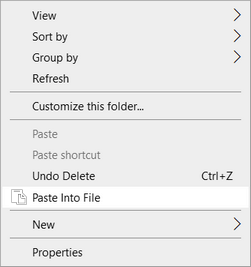
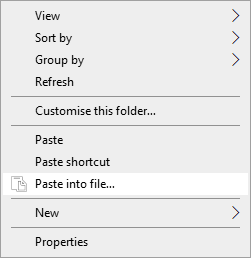
Update README for upcoming v4.4

diff --git a/README.md b/README.md
@@ -13,7 +13,7 @@ A Windows desktop application to paste clipboard contents into files and copy fi
 
 _This is a fork of [sorge13248/PasteIntoFile](https://github.com/sorge13248/PasteIntoFile), itself being a fork of [EslaMx7/PasteIntoFile](https://github.com/EslaMx7/PasteIntoFile)._
 _See the [contributors page](https://github.com/eltos/PasteIntoFile/graphs/contributors) for details on collaborators._
-_This fork comes with many new features such as clipboard monitoring, batch mode, rename inside file explorer, copy file contents, paste into subdirectory, system tray mode, listen to hotkey, support for many additional formats and a new GUI with fluid layout and comfortable text, image, HTML and richt-text preview._
+_This fork comes with many new features such as clipboard monitoring, clipboard patching, batch mode, rename inside file explorer, copy file contents, paste into subdirectory, system tray mode, listen to hotkey, support for many additional formats and a new GUI with fluid layout and comfortable text, image, HTML and richt-text preview._
 _The full changelog can be found on the [release page](https://github.com/eltos/PasteIntoFile/releases)._
 
 
@@ -23,7 +23,8 @@ _The full changelog can be found on the [release page](https://github.com/eltos/
 + Explorer context menu entry: "Paste into file" or "Copy file contents"
 + [Autosave mode](https://github.com/eltos/PasteIntoFile/discussions/2): rename inside file explorer without dialog
 + [Batch mode](https://github.com/eltos/PasteIntoFile/discussions/4): monitor clipboard and save on change
-+ Many formats: Image, Text, HTML, CSV, URL, Rich Text Format (RTF), Data Interchange Format (DIF), Symbolic Link (SLK)
++ [Clipboard patching](https://github.com/eltos/PasteIntoFile/discussions/11): use regular paste options and `CTRL`+`V`
++ Many formats: Image, Text, HTML, CSV, URL, Rich Text Format (RTF), Data Interchange Format (DIF), Symbolic Link (SLK), file drop list
 + Hotkey `Win`+`Alt`+`V` to paste and `Win`+`Alt`+`C` to copy file contents
 + First launch wizard
 
@@ -40,12 +41,12 @@ Paste Into File is free
   + And a **portable version** (.zip file)
 + [Install from Microsoft Store](https://apps.microsoft.com/store/detail/XP88X1XTPKZJDJ)
 
-| [🪙 DONATE](https://github.com/sponsors/eltos) | [❤ SAY THANKS](https://saythanks.io/to/eltos)
-|-|-|
+| [🪙 DONATE](https://github.com/sponsors/eltos) | [❤ SAY THANKS](https://saythanks.io/to/eltos) |
+|---|---|
 
-_Tested on Windows 10._  
-_If you are running an older Windows version make sure the .NET Framework 4.8+ is installed._  
-_If the Microsoft Defender SmartScreen promp appears read [this](https://github.com/eltos/PasteIntoFile/discussions/10)._  
+_Tested on Windows 10._
+_If you are running an older Windows version make sure the .NET Framework 4.8+ is installed._
+_If the Microsoft Defender SmartScreen promp appears read [this](https://github.com/eltos/PasteIntoFile/discussions/10)._
 
 
 ## Usage
@@ -54,13 +55,14 @@ When starting Paste Into File for the first time or after an update, the first l
 
 In addition to the instructions given below, help is also available via [GitHub discussions](https://github.com/eltos/PasteIntoFile/discussions/categories/q-a).
 
-
 ### Paste clipboard contents
-Run the program with the hotkey, from the file explorer context menu, the start menu or the command line.
+If **clipboard patching** is enabled and Paste Into File runs in the system tray, the regular paste command and `CTRL`+`V` hotkey can be used.
+Otherwise (or if you want to use the features described below), run the program from the file explorer context menu, via the start menu, with the hotkey `WIN`+`ALT`+`V` (if enabled) or via command line.
 
-In **autosave mode**, the file will directly be created and selected for renaming.
-Otherwise the dialog will prompt for filename and type.
+In **autosave mode**, the file to paste will directly be created and selected for renaming.
+Otherwise, the dialog will prompt for filename and type.
 By holding `SHIFT` when the program starts, the autosave mode setting can be temporarily inverted (show the dialog even though autosave is enabled, or skip the dialog even though autosave is disabled).
+When running Paste Into File from the start menu, the dialog will always be shown.
 
 The **filename template** can be edited from the dialog or via command line.
 When holding `CTRL` while the program starts, the file will be saved to a subdirectory.
@@ -84,7 +86,7 @@ while using `HTML` will save the plain text.
 
 
 ### Copy file contents
-Run the program with the hotkey, from the file explorer context menu, the start menu or the command line.
+Run the program from the file explorer context menu, with the hotkey `WIN`+`ALT`+`C` (if enabled) or via command line.
 
 Currently, image and text files are supported. If the file format is not understood, an error message will be shown.
 
@@ -95,7 +97,7 @@ Currently, image and text files are supported. If the file format is not underst
 Use `help`, `help paste`, `help config` etc. as argument to show available command line options, e.g.:
 ```
 > .\PasteIntoFile.exe help
-PasteIntoFile 4.2.0.0
+PasteIntoFile 4.4.0.0
 Copyright © PasteIntoFile GitHub contributors
 
   paste      (Default Verb) Paste clipboard contents into file
@@ -108,7 +110,7 @@ Copyright © PasteIntoFile GitHub contributors
 ```
 ```
 > .\PasteIntoFile.exe help config
-PasteIntoFile 4.2.0.0
+PasteIntoFile 4.4.0.0
 Copyright © PasteIntoFile GitHub contributors
 
   --register             Register context menu entry
@@ -116,6 +118,8 @@ Copyright © PasteIntoFile GitHub contributors
   --enable-autostart     Register program to run in system tray on windows
                          startup
   --disable-autostart    Remove autostart on windows startup registration
+  --enable-patching      Enables clipboard patching while running in system tray
+  --disable-patching     Disables clipboard patching
   -f, --filename         Filename template with optional format variables such as
                          {0:yyyyMMdd HHmmSS} for current date and time
                          {1:000} for batch-mode save counter
